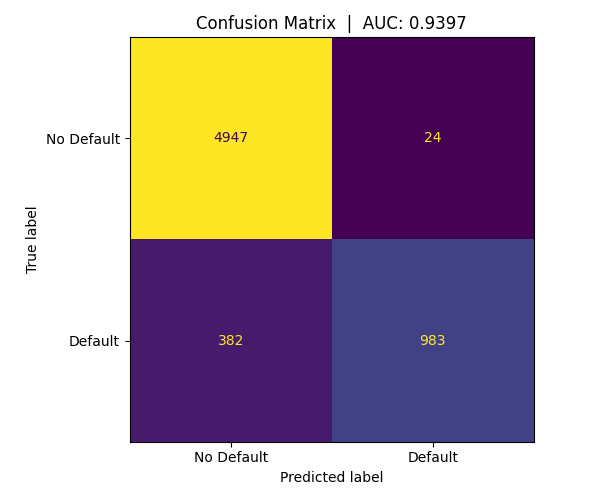
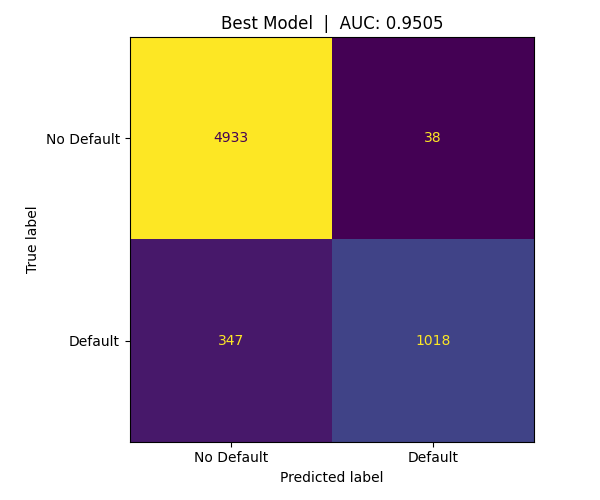
W5: MLflow experiment tracking + Optuna hyperparameter tuning, 20 trials

diff --git a/src/train_eval.py b/src/train_eval.py
@@ -7,88 +7,170 @@ from sklearn.metrics import (
 )
 import xgboost as xgb
 import mlflow
-import mlflow.sklearn
+import mlflow.xgboost
+from mlflow.models.signature import infer_signature
+import optuna
 import joblib
 import matplotlib.pyplot as plt
-import json, os
+import json, os, warnings
+warnings.filterwarnings('ignore')
 
-# ── 1. Load processed features ────────────────────────────────────
+# ── Config ────────────────────────────────────────────────────────
+EXPERIMENT_NAME = "loan-default-prediction"
+MODEL_NAME      = "loan-default-classifier"
+MLFLOW_URI      = "mlruns"          # local folder — MLflow UI reads this
+N_TRIALS        = 20                # number of Optuna trials
+
+# ── 1. Load data ──────────────────────────────────────────────────
 df = pd.read_parquet('data/processed/features.parquet')
-X = df.drop('loan_status', axis=1)
-y = df['loan_status']
+X  = df.drop(columns=['loan_status', 'event_timestamp',
+                       'applicant_id'], errors='ignore')
+y  = df['loan_status']
 
-# drop feast helper columns if present
-for col in ['event_timestamp', 'applicant_id']:
-    if col in X.columns:
-        X = X.drop(col, axis=1)
-
-# ── 2. Train / test split ─────────────────────────────────────────
 X_train, X_test, y_train, y_test = train_test_split(
     X, y, test_size=0.2, random_state=42, stratify=y
 )
 
-# ── 3. Train XGBoost ──────────────────────────────────────────────
-mlflow.set_experiment("loan-default-prediction")
+# ── 2. MLflow setup ───────────────────────────────────────────────
+mlflow.set_tracking_uri(MLFLOW_URI)
+mlflow.set_experiment(EXPERIMENT_NAME)
 
-with mlflow.start_run():
+# ── 3. Optuna objective — each trial is one MLflow run ────────────
+def objective(trial):
     params = {
-        "n_estimators": 200,
-        "max_depth": 4,
-        "learning_rate": 0.05,
-        "subsample": 0.8,
-        "eval_metric": "logloss",
-        "random_state": 42
+        "n_estimators":   trial.suggest_int("n_estimators", 100, 500),
+        "max_depth":      trial.suggest_int("max_depth", 3, 8),
+        "learning_rate":  trial.suggest_float("learning_rate", 0.01, 0.3, log=True),
+        "subsample":      trial.suggest_float("subsample", 0.6, 1.0),
+        "colsample_bytree": trial.suggest_float("colsample_bytree", 0.6, 1.0),
+        "min_child_weight": trial.suggest_int("min_child_weight", 1, 10),
+        "eval_metric":    "logloss",
+        "random_state":   42,
+        "use_label_encoder": False,
     }
 
-    model = xgb.XGBClassifier(**params)
-    model.fit(X_train, y_train,
-              eval_set=[(X_test, y_test)],
-              verbose=False)
+    with mlflow.start_run(run_name=f"trial_{trial.number}"):
+        # log hyperparams
+        mlflow.log_params(params)
+        mlflow.log_param("trial_number", trial.number)
 
-    # ── 4. Evaluate ───────────────────────────────────────────────
-    y_pred  = model.predict(X_test)
-    y_proba = model.predict_proba(X_test)[:, 1]
+        # train
+        model = xgb.XGBClassifier(**params)
+        model.fit(X_train, y_train,
+                  eval_set=[(X_test, y_test)],
+                  verbose=False)
 
-    auc = roc_auc_score(y_test, y_proba)
-    report = classification_report(y_test, y_pred, output_dict=True)
+        # evaluate
+        y_pred  = model.predict(X_test)
+        y_proba = model.predict_proba(X_test)[:, 1]
 
+        auc       = roc_auc_score(y_test, y_proba)
+        report    = classification_report(y_test, y_pred, output_dict=True)
+        precision = report['1']['precision']
+        recall    = report['1']['recall']
+        f1        = report['1']['f1-score']
+
+        # log metrics
+        mlflow.log_metrics({
+            "auc": auc, "precision": precision,
+            "recall": recall, "f1": f1
+        })
+
+        # log model with input signature
+        signature = infer_signature(X_train, y_pred)
+        mlflow.xgboost.log_model(model, "model", signature=signature)
+
+    return auc   # Optuna maximises this
+
+# ── 4. Run Optuna study ───────────────────────────────────────────
+print(f"\nRunning {N_TRIALS} Optuna trials — each logged to MLflow...\n")
+study = optuna.create_study(direction="maximize",
+                            study_name=EXPERIMENT_NAME)
+optuna.logging.set_verbosity(optuna.logging.WARNING)
+study.optimize(objective, n_trials=N_TRIALS)
+
+# ── 5. Retrain best model on full data ───────────────────────────
+print(f"\nBest trial: {study.best_trial.number}")
+print(f"Best AUC:   {study.best_value:.4f}")
+print(f"Best params: {study.best_params}")
+
+best_params = {**study.best_params,
+               "eval_metric": "logloss",
+               "random_state": 42,
+               "use_label_encoder": False}
+
+with mlflow.start_run(run_name="best_model_final"):
+    mlflow.log_params(best_params)
+    mlflow.log_param("selected_by", "optuna_maximize_auc")
+
+    best_model = xgb.XGBClassifier(**best_params)
+    best_model.fit(X_train, y_train,
+                   eval_set=[(X_test, y_test)],
+                   verbose=False)
+
+    y_pred  = best_model.predict(X_test)
+    y_proba = best_model.predict_proba(X_test)[:, 1]
+
+    auc       = roc_auc_score(y_test, y_proba)
+    report    = classification_report(y_test, y_pred, output_dict=True)
     precision = report['1']['precision']
     recall    = report['1']['recall']
     f1        = report['1']['f1-score']
 
-    # ── 5. Log to MLflow ──────────────────────────────────────────
-    mlflow.log_params(params)
-    mlflow.log_metrics({"auc": auc, "precision": precision,
-                        "recall": recall, "f1": f1})
-    mlflow.sklearn.log_model(sk_model=model, name="model")
+    mlflow.log_metrics({
+        "auc": auc, "precision": precision,
+        "recall": recall, "f1": f1
+    })
 
-    # ── 6. Save model ─────────────────────────────────────────────
-    os.makedirs('models', exist_ok=True)
-    joblib.dump(model, 'models/model.pkl')
-
-    # ── 7. Save metrics for CML report ───────────────────────────
+    # ── 6. Confusion matrix ───────────────────────────────────────
     os.makedirs('reports', exist_ok=True)
-
-    metrics = {"auc": round(auc, 4), "precision": round(precision, 4),
-               "recall": round(recall, 4), "f1": round(f1, 4)}
-
-    with open('reports/metrics.json', 'w') as f:
-        json.dump(metrics, f, indent=2)
-
-    # ── 8. Confusion matrix plot for CML ─────────────────────────
-    cm = confusion_matrix(y_test, y_pred)
-    disp = ConfusionMatrixDisplay(confusion_matrix=cm,
-                                  display_labels=['No Default', 'Default'])
+    cm   = confusion_matrix(y_test, y_pred)
+    disp = ConfusionMatrixDisplay(cm, display_labels=['No Default','Default'])
     fig, ax = plt.subplots(figsize=(6, 5))
     disp.plot(ax=ax, colorbar=False)
-    plt.title(f'Confusion Matrix  |  AUC: {auc:.4f}')
+    plt.title(f'Best Model  |  AUC: {auc:.4f}')
     plt.tight_layout()
     plt.savefig('reports/confusion_matrix.png', dpi=100)
     plt.close()
+    mlflow.log_artifact('reports/confusion_matrix.png')
 
-    print("\n── Model Metrics ──────────────────────")
+    # ── 7. Feature importance plot ────────────────────────────────
+    fi = pd.Series(best_model.feature_importances_,
+                   index=X_train.columns).sort_values(ascending=True)
+    fig, ax = plt.subplots(figsize=(8, 5))
+    fi.plot(kind='barh', ax=ax, color='steelblue')
+    ax.set_title('Feature Importance — Best Model')
+    plt.tight_layout()
+    plt.savefig('reports/feature_importance.png', dpi=100)
+    plt.close()
+    mlflow.log_artifact('reports/feature_importance.png')
+
+    # ── 8. Save metrics JSON for CI summary ───────────────────────
+    metrics = {
+        "auc": round(auc, 4),
+        "precision": round(precision, 4),
+        "recall": round(recall, 4),
+        "f1": round(f1, 4)
+    }
+    with open('reports/metrics.json', 'w') as f:
+        json.dump(metrics, f, indent=2)
+    mlflow.log_artifact('reports/metrics.json')
+
+    # ── 9. Register model in MLflow Model Registry ────────────────
+    signature = infer_signature(X_train, y_pred)
+    mlflow.xgboost.log_model(
+        best_model, "model",
+        signature=signature,
+        registered_model_name=MODEL_NAME   # goes into registry
+    )
+
+    # ── 10. Save locally too ──────────────────────────────────────
+    os.makedirs('models', exist_ok=True)
+    joblib.dump(best_model, 'models/model.pkl')
+    joblib.dump(X_train.columns.tolist(), 'models/feature_columns.pkl')
+
+    print(f"\n── Final Metrics ──────────────────────")
     for k, v in metrics.items():
         print(f"  {k:12s}: {v}")
-    print(f"\n  Model saved  → models/model.pkl")
-    print(f"  Metrics saved → reports/metrics.json")
-    print(f"  Plot saved   → reports/confusion_matrix.png")
+    print(f"\n  Registered in MLflow as: '{MODEL_NAME}'")
+    print(f"  Saved locally: models/model.pkl")